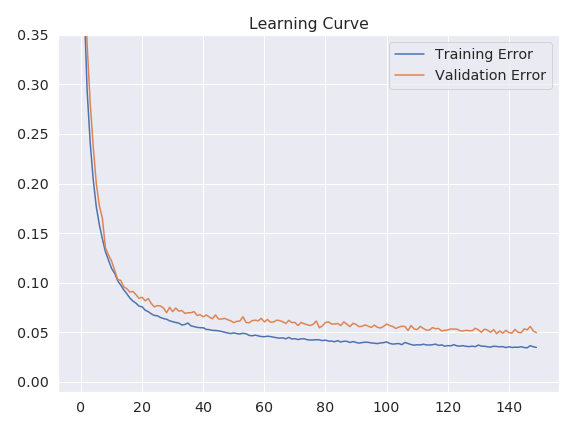
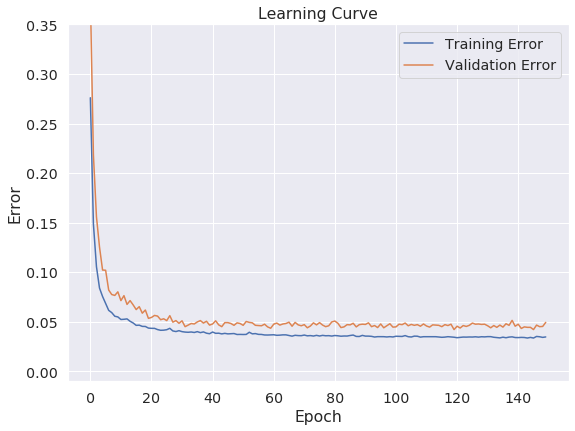
Adding the ReadMe

diff --git a/README.md b/README.md
@@ -1,11 +1,11 @@
 # SELF-DRIVING CAR: Traffic Sign Classifier
-One of the essential techniques in Self-Driving Car engineering is detecting the Traffic Sign. In [previous projects](), we have talked about other critical parts. For acquiring to being a specialist in Self-Driving Car, we should know about recognizing the traffic sign and other obstacles on the road. So let us implement it in the following steps:
+One of the essential techniques in Self-Driving Car engineering is detecting the Traffic Sign. In [previous projects](https://github.com/PooyaAlamirpour/TrafficSignClassifier), we have talked about other critical parts. For acquiring to being a specialist in Self-Driving Car, we should know about recognizing the traffic sign and other obstacles on the road. So let us implement it in the following steps:
 * Visualizing the database
 * Preprocessing the data within the dataset
 * Design, train and validating a Deep Neural Network Architecture
 * Using newfound images for testing the performance of our model
 
-I have prepared a [video]() from my implementation that you can watch it too.
+I have prepared a [video](https://www.youtube.com/watch?v=fJYYmyuJm9I&list=PLChwywmfd8lqhyap8yrjOeALFLkJ5nRTv&index=2&t=108s) from my implementation that you can watch it too.
 
 ### Visualizing the database
 There is a folder that is called `dataset,` and it is uploaded the used dataset for this project. So it can be downloadable for use on a personal project. However, before that, for more precise, let us walk-through on images that exist in this dataset.
@@ -15,10 +15,12 @@ This dataset has 43 categories for the traffic sign and has 809 images on averag
 * Number of the test images is 12630
 
 The size of all images is 32x32. Here is a plot that shows how the data is distributed based on each category.
-<img src="https://github.com/PooyaAlamirpour/AdvanceLaneLineDetection/blob/master/camera_cal/calibration2_undist.png" width="640" border="10" />
+
+<img src="https://github.com/PooyaAlamirpour/TrafficSignClassifier/blob/master/plots/number_of_samples_on_each_category.png" width="640" border="10" />
 
 Here demonstrate some images that were randomly picked up from the dataset and were taken in different weather and light situations.
-<img src="https://github.com/PooyaAlamirpour/AdvanceLaneLineDetection/blob/master/camera_cal/calibration2_undist.png" width="640" border="10" />
+
+<img src="https://github.com/PooyaAlamirpour/TrafficSignClassifier/blob/master/plots/random_examples.png" width="640" border="10" />
 
 ### Preprocessing the data within the dataset
 In this project, all images are converted to the YUV space, and just the Y channel is used. Because preliminary experience shows, using all channels would be caused to confuse the traffic sign recognizer. Images are randomly perturbed in rotation and position. It is required to train the network to immune against this turbulence. For achieving that goal, some arbitrary images should be randomly rotated, transformed, and scaled. So the network can be trained in other styles of traffic sign images. The `preprocessImages` method does all these jobs. All this scenario have done for the training and validation sets.
@@ -27,6 +29,9 @@ In this project, all images are converted to the YUV space, and just the Y chann
 In this project, a model is designed with ten layers that are connected by using the `Relu.`
 The input layer has a 32x32x1 dimension and receives images in the Y channel. Then a 5x5 Convolution layer is connected to it by 1x1 stride and the valid padding. The size of the output of this layer is 28x28x6. After that, there is a max-pooling layer that is connected by using a Relu to the Convolution layer. The output of max-pooling with 2x2x stride is 16x16x64. Again another 5x5 Convolution with 1x1 stride and valid padding is added, so the size of the output of this layer is 14x14x6, then a Relu is added to the output of it. In the following, It is connected to a Fully-Connected, Relu, and Dropout layer. So 14x14x6 is converted to 120. Again it is used another Fully-Connected layer with Relu and Dropout. Now the size of the output of this model in this step is 84. Finally, a Fully-Connected layer with Sfotmax is connected to the last layer. So the output size of this model is 43.
 This model is trained by using an Adam Optimizer. The learning rate of this model is 1e-4, and the rate of the dropout in all layers is 0.3. The size of the batch that is used in designing this model is 128.
+
+<img src="https://github.com/PooyaAlamirpour/TrafficSignClassifier/blob/master/plots/learning_curve.png" width="640" border="10" />
+
 One of the best architecture for detecting more than ten classes is LeNet. So starting from this point is a good idea. After a couple runs, this model demonstrated to tend to overfit on the train data. The question is, How is it possible to detect overfitting? Considering on Learning Curve can be perceived lots of important detail about the performance of a model. If the training curve shows to converge to the 99% accuracy and the validation curve does not have satisfactory performance, the model can be overfitting. Two techniques can survive a model from this circumstance.
 * Adding more data
 * Dropout
@@ -36,12 +41,44 @@ Finally, the model has the accuracy of nearby 97% on the training and 95% on the
 
 ### Using newfound images for testing the performance of our model
 For evaluating a model, it is better to test it by using some new images outside of the dataset. Here are five German Traffic signs that can be used for testing.
-<img src="https://github.com/PooyaAlamirpour/AdvanceLaneLineDetection/blob/master/camera_cal/calibration2_undist.png" width="640" border="10" />
+
+<img src="https://github.com/PooyaAlamirpour/TrafficSignClassifier/blob/master/plots/newfound.png" width="640" border="10" />
 
 These images have messy and different backgrounds or have turbulence surfaces by a watermark. So these would be great for appraising our model. At first, we should pass all images into `preprocessImages` function. Here are the top five softmax result for each image:
-<img src="https://github.com/PooyaAlamirpour/AdvanceLaneLineDetection/blob/master/camera_cal/calibration2_undist.png" width="640" border="10" />
-
 As the result shows, our model can detect four traffic signs correctly, and the accuracy of it is nearly 80%. It is entirely comprehensible why the model has lower than precision on newfound images. Because it does not have experience for learning newfound images.
+
+```python
+Top 5 Labels for image 'Children crossing':
+ - 'Children crossing' with prob = 0.80 
+ - 'Go straight or right' with prob = 0.08 
+ - 'End of no passing' with prob = 0.06 
+ - 'Keep right' with prob = 0.04 
+ - 'No passing' with prob = 0.01 
+Top 5 Labels for image 'Wild animals crossing':
+ - 'Children crossing' with prob = 1.00 
+ - 'Keep right' with prob = 0.00 
+ - 'Dangerous curve to the right' with prob = 0.00 
+ - 'Go straight or right' with prob = 0.00 
+ - 'Slippery road' with prob = 0.00 
+Top 5 Labels for image 'Stop':
+ - 'Stop' with prob = 1.00 
+ - 'Priority road' with prob = 0.00 
+ - 'Yield' with prob = 0.00 
+ - 'Turn right ahead' with prob = 0.00 
+ - 'No entry' with prob = 0.00 
+Top 5 Labels for image 'No vehicles':
+ - 'No vehicles' with prob = 1.00 
+ - 'Speed limit (30km/h)' with prob = 0.00 
+ - 'Speed limit (50km/h)' with prob = 0.00 
+ - 'Speed limit (80km/h)' with prob = 0.00 
+ - 'No passing' with prob = 0.00 
+Top 5 Labels for image 'Bumpy road':
+ - 'Bumpy road' with prob = 1.00 
+ - 'Bicycles crossing' with prob = 0.00 
+ - 'Road work' with prob = 0.00 
+ - 'Children crossing' with prob = 0.00 
+ - 'Dangerous curve to the right' with prob = 0.00 
+```
 
 Thanks for reading my article and watching my implementation video. Feel free to ask me any questions.
 
